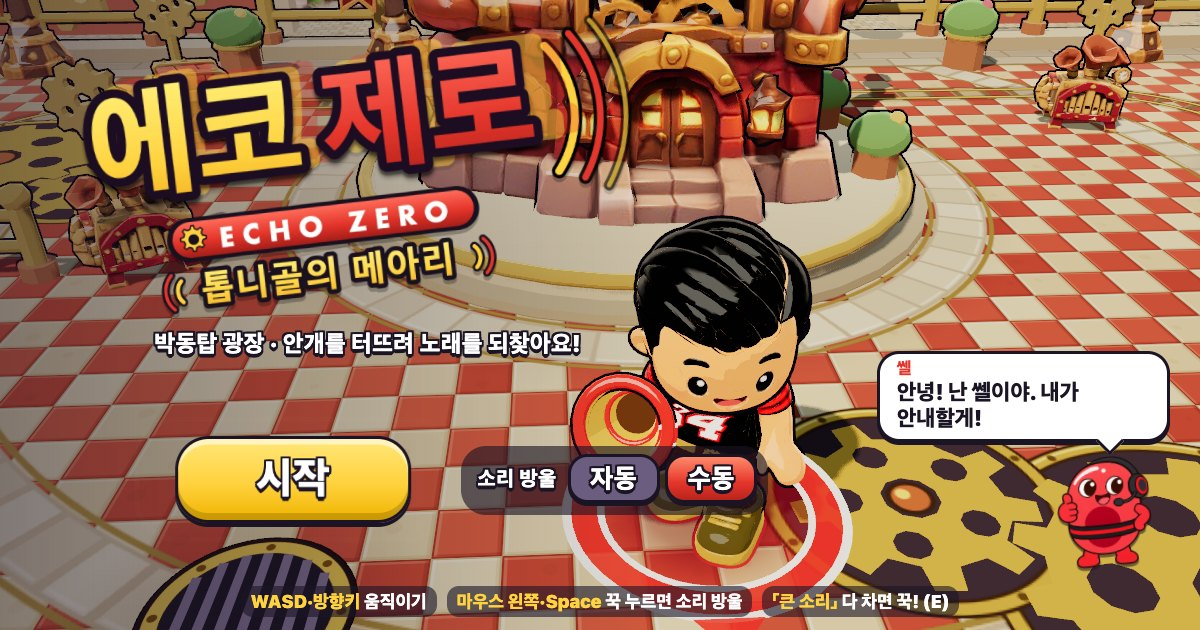
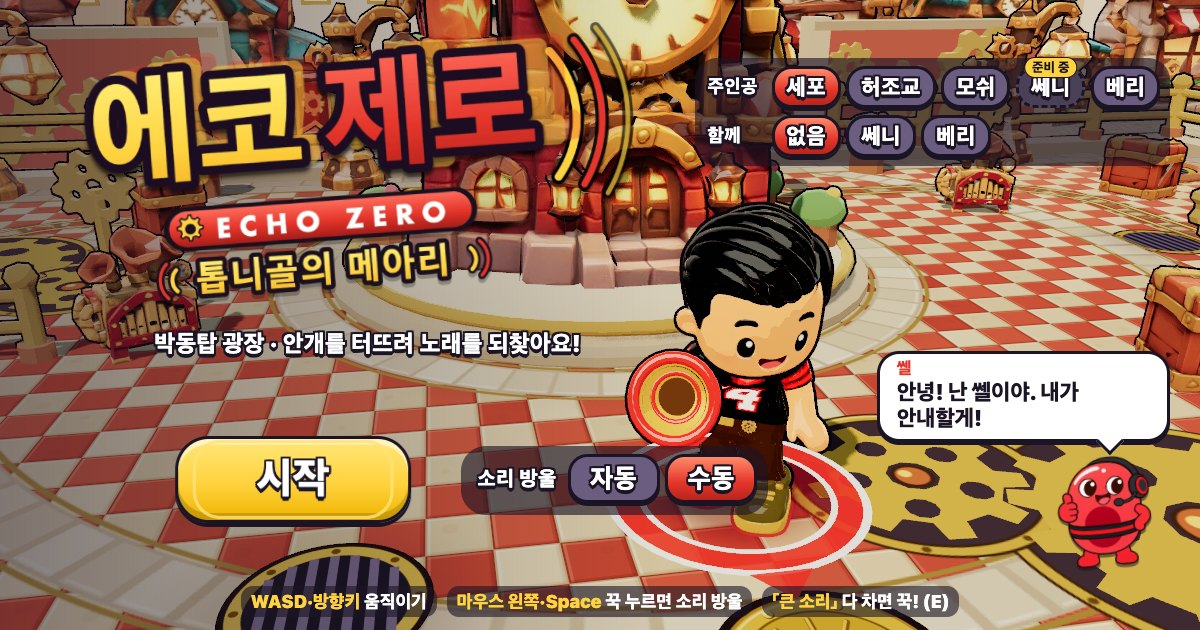
게임 공개본 2026-11-16 (echo.sefoent.com)

diff --git a/js/game.js b/js/game.js
@@ -146,7 +146,7 @@
 
   function toTitle() {
     resetRun();
-    G.phase = 'title'; G.replay = null;
+    G.phase = 'title'; G.replay = null; G.titleSnap = 0.6; // 11-16: 타이틀 들어간 뒤 0.6초는 카메라·주인공 맞춤이 바로 따라감(늦게 따라오며 머리가 칸·말풍선에 잠깐 가리지 않게)
     TG.PL.x = 0; TG.PL.z = 3.5; TG.PL.px = 0; TG.PL.pz = 3.5; TG.PL.yaw = TG.PL.tyaw = 0;
     TG.H.show(TG.H.title, true); TG.H.show(TG.H.hud, false); TG.H.show(TG.H.result, false); TG.H.show(TG.H.pause, false);
     TG.A.bgm('bgm_win', 0.6, true);
@@ -897,6 +897,12 @@
     // 주인공·보조 고르기 (타이틀, 11-16)
     document.querySelectorAll('[data-hero]').forEach((b) => b.addEventListener('click', (e) => { e.stopPropagation(); TG.A.unlock(); TG.A.ui(1.1); if (G.phase === 'title') setHeroNow(b.dataset.hero, TG.assistId); }));
     document.querySelectorAll('[data-assist]').forEach((b) => b.addEventListener('click', (e) => { e.stopPropagation(); TG.A.unlock(); TG.A.ui(1.1); if (G.phase === 'title') setHeroNow(TG.heroId, b.dataset.assist); }));
+    // 쎄니 주인공 자리(3D 전, 11-16 대표): 눌러도 안 골라짐 — 버튼 아래 「곧 만나요!」만 잠깐
+    { let soonTO = 0; document.querySelectorAll('[data-soon]').forEach((b) => b.addEventListener('click', (e) => { e.stopPropagation(); e.preventDefault(); TG.A.unlock(); TG.A.ui(0.8);
+      const tip = document.getElementById('soonTip'), cp = document.getElementById('charPick'); if (!tip || !cp) return;
+      const br = b.getBoundingClientRect(), cr = cp.getBoundingClientRect(); tip.classList.remove('hide');
+      tip.style.left = Math.max(0, Math.min(cr.width - tip.offsetWidth, br.left - cr.left + br.width / 2 - tip.offsetWidth / 2)) + 'px';
+      clearTimeout(soonTO); soonTO = setTimeout(() => tip.classList.add('hide'), 1600); })); }
     document.getElementById('optBgm').addEventListener('input', (e) => { G.settings.bgm = e.target.value / 100; applySettings(); saveSet(); });
     document.getElementById('optSfx').addEventListener('input', (e) => { G.settings.sfx = e.target.value / 100; applySettings(); saveSet(); });
   }
@@ -1088,9 +1094,9 @@
     const aspect = R.w / R.h;
     let dist, pitch, yaw = 0, tx, tz, ty = 0.6, bossCam = false;
     if (G.phase === 'title') {
-      const t = G.drawT;
-      dist = 9.6; pitch = 0.36; yaw = -0.18 + Math.sin(t * 0.25) * 0.12;
-      tx = p.rx - 3.0; tz = p.rz - 0.6; ty = 2.0;
+      const t = G.drawT, f = G.titleFit || 1; // f = 주인공 맞춤 배율(발 자리를 중심으로 거리·목표점을 같이 늘림 → 주인공만 작아 보임, 발은 같은 자리). 아래 titleFitUpdate
+      dist = 9.6 * f; pitch = 0.36; yaw = -0.18 + Math.sin(t * 0.25) * 0.12;
+      tx = p.rx - 3.0 * f + (G.titleShift || 0); tz = p.rz - 0.6 * f; ty = 2.0 * f; // titleShift = 쎌 말풍선에 얼굴이 걸리면 주인공을 화면 왼쪽으로 조금
     } else {
       const base = aspect > 2 ? 20.8 : 22.5; // 대표 의견(11-12): 더 넓게 — 예전 15.4/17 의 1.35배
       dist = base * G.camZoom; ty = 1.0; // SEFO 가 화면 높이의 1/5 이상
@@ -1122,6 +1128,7 @@
       else if (G.phase === 'bossIntro') { tx = TG.lerp(p.rx, 0, 0.5); tz = TG.lerp(p.rz, 1, 0.5) - 1; }
     }
     if (api.camOv) { const o = api.camOv; dist = o.dist; pitch = o.pitch; yaw = o.yaw; tx = p.rx; tz = p.rz; ty = o.ty; cam.dist = dist; cam.pitch = pitch; cam.yaw = yaw; cam.x = tx; cam.z = tz; cam.ty = ty; } // 시험: 가까이 보기
+    if (G.titleSnap > 0 && G.phase === 'title') { G.titleSnap -= dt; cam.x = tx; cam.z = tz; cam.dist = dist; cam.pitch = pitch; cam.yaw = yaw; cam.ty = ty; }
     const k = G.phase === 'title' ? 3 : G.phase === 'intro' ? 2.2 : bossCam ? 3.2 : 6;
     cam.x = TG.damp(cam.x, tx, k, dt); cam.z = TG.damp(cam.z, tz, k, dt);
     cam.dist = TG.damp(cam.dist, dist, G.phase === 'intro' ? 2 : bossCam ? 2.2 : 3, dt); cam.pitch = TG.damp(cam.pitch, pitch, 2.5, dt); cam.yaw = TG.damp(cam.yaw, yaw, 2.5, dt);
@@ -1135,6 +1142,60 @@
     c.translateX(sh.x); c.translateY(sh.y);
     c.rotateZ(sh.roll);
     R.followShadow(cam.x, cam.z - 2);
+    if (G.phase === 'title') titleFitUpdate(dt);
+  }
+  // 타이틀 주인공 맞춤 (11-16 대표: 폰에서 모쉬 큐브 머리가 주인공 칸에 가림): 머리 꼭대기(모델 경계 상자 위 네 모서리)가 주인공 칸 아래 8px 보다 위로 가면
+  // 필요한 만큼만 f 를 키움(최대 1.8). 주인공·화면 크기마다 저절로 맞음. 그리기 전용(규칙·기록과 무관)
+  let fitBox = null;
+  const _fv = new T.Vector3();
+  function heroBox() {
+    const PL = P(); if (!PL.model) return null;
+    if (fitBox && fitBox.m === PL.model && G.drawT - fitBox.t < 0.5) return fitBox; // 자세가 바뀌니 0.5초마다 다시 잼(꼭짓점 1500개 남짓 — 타이틀에서만)
+    PL.root.updateMatrixWorld(true);
+    const bb = new T.Box3(), v = new T.Vector3();
+    PL.model.traverse((o) => {
+      if (!o.isMesh || o.userData.isOutline || !o.visible || !o.geometry || !o.geometry.attributes.position) return;
+      const pos = o.geometry.attributes.position, step = Math.max(1, Math.floor(pos.count / 1500));
+      for (let i = 0; i < pos.count; i += step) { v.fromBufferAttribute(pos, i); if (o.isSkinnedMesh) o.applyBoneTransform(i, v); v.applyMatrix4(o.matrixWorld); bb.expandByPoint(v); }
+    });
+    if (bb.isEmpty()) return null;
+    const r = PL.root.position;
+    fitBox = { m: PL.model, t: G.drawT, x0: bb.min.x - r.x, x1: bb.max.x - r.x, z0: bb.min.z - r.z, z1: bb.max.z - r.z, top: (bb.max.y - r.y) * 1.04 }; // 4% = 숨 쉬기·통통 여유
+    return fitBox;
+  }
+  let fitMeasT = -1;
+  function titleFitUpdate(dt) {
+    const snap = G.titleSnap > 0;
+    if (G.titleFitT) G.titleFit = snap ? G.titleFitT : TG.damp(G.titleFit || G.titleFitT, G.titleFitT, G.titleFitT > (G.titleFit || 1) ? 20 : 3, dt); // 가릴 땐 빨리, 풀릴 땐 천천히
+    if (G.titleShiftT != null) G.titleShift = snap ? G.titleShiftT : TG.damp(G.titleShift || 0, G.titleShiftT, G.titleShiftT > (G.titleShift || 0) ? 12 : 2, dt);
+    if (!snap && G.drawT - fitMeasT < 0.1 && G.drawT >= fitMeasT) return; // 재기는 0.1초마다(배치 읽기·투영 — 가볍게), 따라가기는 매 프레임
+    fitMeasT = G.drawT;
+    const pick = document.getElementById('charPick'), PL = P();
+    if (!pick || !pick.offsetParent || !PL.root.visible || G.heroWait) return;
+    const hb = heroBox(); if (!hb) return;
+    const c = TG.R.camera, cvr = TG.R.renderer.domElement.getBoundingClientRect(), H = cvr.height || innerHeight, rx = PL.root.position.x, rz = PL.root.position.z;
+    c.updateMatrixWorld();
+    let head = 1e9;
+    for (const x of [hb.x0, hb.x1]) for (const z of [hb.z0, hb.z1]) { _fv.set(rx + x, hb.top, rz + z).project(c); head = Math.min(head, cvr.top + (1 - _fv.y) / 2 * H); }
+    _fv.set(rx, 0, rz).project(c); const feet = cvr.top + (1 - _fv.y) / 2 * H;
+    const L = pick.getBoundingClientRect().bottom + 8, fc = cam.dist / 9.6;
+    // 쎌 말풍선(오른쪽 아래) 과 겹치면 옆으로: 위 네 모서리 오른쪽 끝이 말풍선 왼쪽 6px 안으로 들어오면 그만큼 목표점을 오른쪽으로(= 주인공이 왼쪽으로). 최대 1.6·f, 머리쪽만 봄
+    const bub = document.querySelector('#sselTitle .gtxt');
+    if (bub && bub.offsetParent) {
+      const br = bub.getBoundingClientRect();
+      let right = -1e9, hLo = -1e9; // 머리쪽(키 62% 위)만 — 몸·발은 말풍선 뒤여도 됨
+      for (const x of [hb.x0, hb.x1]) for (const z of [hb.z0, hb.z1]) for (const y of [hb.top * 0.62, hb.top]) { _fv.set(rx + x, y, rz + z).project(c); right = Math.max(right, cvr.left + (_fv.x + 1) / 2 * cvr.width); hLo = Math.max(hLo, cvr.top + (1 - _fv.y) / 2 * cvr.height); }
+      _fv.set(rx, 0, rz).project(c); const fx0 = _fv.x; _fv.set(rx + 1, 0, rz).project(c); const ppu = Math.abs(_fv.x - fx0) / 2 * cvr.width || 1;
+      const yOv = br.bottom > head && br.top < hLo, over = yOv ? right - (br.left - 6) : -1e9, cur = G.titleShift || 0;
+      const base = cam.x - (rx - 3.0 * fc); // 지금 카메라가 실제로 옮겨 가 있는 만큼(목표값 아님 — 따라가는 중에 쌓이지 않게)
+      let want = cur;
+      if (over > 0) want = base + over / ppu; else if (!yOv) want = 0; else if (over < -24) want = base + (over + 24) / ppu;
+      want = TG.clamp(want, 0, 1.6 * (G.titleFit || 1));
+      G.titleShiftT = want; if (snap) G.titleShift = want;
+    }
+    if (!(feet > L + 20)) return;
+    const need = TG.clamp(fc * (feet - head) / (feet - L), 1, 1.8);
+    G.titleFitT = need; if (snap || !G.titleFit) G.titleFit = need;
   }
 
   // ── 매 프레임: 밀린 시간만큼 규칙 계산을 1/60초 걸음으로 돌리고, 그리기는 한 번 ──

diff --git a/css/game.css b/css/game.css
@@ -369,9 +369,11 @@ body:not(.touch) #btnSnd { opacity: 0.85; }
 #atkPick .atkB { color: #fff; background: #6b5d80; font-size: calc(19px * var(--s)); }
 #atkPick .atkB.on { color: #fff; background: linear-gradient(#ff8a6a, #e5352b 60%, #b8241b); }
 /* 주인공·함께 고르기 (타이틀, 11-16 베리): 소리 방울 칸 위에 두 줄 */
-#charPick { position: absolute; bottom: calc(var(--vh, 100dvh) * 0.02 + 196px * var(--s)); right: max(env(safe-area-inset-right, 0px), 2.5vw); display: flex; flex-direction: column; gap: calc(5px * var(--s)); background: rgba(27,20,36,0.62); border-radius: calc(18px * var(--s)); padding: calc(6px * var(--s)) calc(8px * var(--s)) calc(8px * var(--s)) calc(12px * var(--s)); }
-#charPick .atkL { font-size: calc(15px * var(--s)); color: #fff; margin-right: calc(4px * var(--s)); min-width: calc(46px * var(--s)); }
-#charPick .atkB { color: #fff; background: #6b5d80; font-size: calc(17px * var(--s)); padding: calc(4px * var(--s)) calc(12px * var(--s)); }
+/* 11-16 대표: 주인공 다섯(세포·허조교·모쉬·쎄니 준비 중·베리) 한 줄. 칸을 오른쪽 위(⛶ 버튼 아래)로 올리고 버튼을 줄여, 키 큰 주인공(모쉬 큐브 머리)도 머리가 안 가리게.
+   그래도 머리가 닿으면 타이틀 카메라가 주인공만 살짝 작게(발 자리는 그대로) — js/game.js titleFit */
+#charPick { position: absolute; top: calc(max(env(safe-area-inset-top, 0px), 8px) + 50px); right: max(env(safe-area-inset-right, 0px), 2.5vw); display: flex; flex-direction: column; align-items: flex-start; gap: calc(5px * var(--s)); background: rgba(27,20,36,0.62); border-radius: calc(16px * var(--s)); padding: calc(6px * var(--s)) calc(7px * var(--s)) calc(7px * var(--s)) calc(9px * var(--s)); }
+#charPick .atkL { font-size: calc(13.5px * var(--s)); color: #fff; margin-right: calc(2px * var(--s)); min-width: calc(40px * var(--s)); }
+#charPick .atkB { color: #fff; background: #6b5d80; font-size: calc(16px * var(--s)); padding: calc(4px * var(--s)) calc(8.5px * var(--s)); }
 #charPick .atkB.on { color: #fff; background: linear-gradient(#ff8a6a, #e5352b 60%, #b8241b); }
 #charPick .atkB.berri.on { background: linear-gradient(#ffb3d6, #ff7fb6 60%, #d9558f); color: #2a1424; }
 #charPick .atkB.sseni.on { background: linear-gradient(#cdb0ff, #a46bff 60%, #7a46d6); }
@@ -381,6 +383,12 @@ body:not(.touch) #btnSnd { opacity: 0.85; }
 #charPick .atkB.busy .ol::after { content: '…'; }
 body.heroWait #startBtn { opacity: 0.55; pointer-events: none; }
 #charPick .atkB.hide { display: none; }
+/* 쎄니 주인공 자리(3D 전): 흐리게 + 「준비 중」 꼬리표, 눌러도 안 골라짐 — 「곧 만나요!」 작은 말풍선만 (js/game.js) */
+#charPick .atkB.soon { position: relative; background: #4a4158; color: rgba(255,255,255,0.5); border-style: dashed; box-shadow: none; cursor: default; }
+#charPick .atkB.soon:active { transform: none; }
+#charPick .atkB.soon .soonTag { position: absolute; left: 50%; top: calc(-9px * var(--s)); transform: translateX(-50%); font-style: normal; white-space: nowrap; font-size: calc(9.5px * var(--s)); line-height: 1; padding: calc(2px * var(--s)) calc(5px * var(--s)); border-radius: 99px; background: #ffd23f; color: #1b1424; border: 1.5px solid #1b1424; }
+#soonTip { position: absolute; z-index: 2; top: 100%; margin-top: calc(6px * var(--s)); font-size: calc(14px * var(--s)); background: #fff; color: #1b1424; border: 3px solid #1b1424; border-radius: calc(12px * var(--s)); padding: calc(3px * var(--s)) calc(10px * var(--s)); white-space: nowrap; pointer-events: none; text-shadow: none; }
+#soonTip.hide { display: none; }
 .atkSeg.sm .atkB { font-size: calc(15px * var(--s)); padding: calc(3px * var(--s)) calc(12px * var(--s)); }
 body.atkAuto .manOnly { display: none !important; }
 body:not(.atkAuto) .autoOnly { display: none !important; }

diff --git a/js/heroes.js b/js/heroes.js
@@ -2,18 +2,19 @@
    주인공: SEFO(기본) · BERRI · 허조교(GUNNER, 기획서 ④ 2번: 삑! 직선 음표 / 열 맞춰! 한 줄 관통) · MOSHEE(회의록 추천안: 픽셀 빛줄 벽 한 번 튕김 / 픽셀 하트 날아가 벽에서 넷으로). 보조(쎄니·베리, 기획서 ⑦-A-4): 주인공 뒤를 따라다님, 판정 없음, 카드 적용 없음.
    주인공 GLB 는 고른 것만 따로 받음(js/assets.js M.hero) — 설정은 여기, 묶음은 js/pack_hero_<model>.js
    고르는 법: 주인공이 베리면 보조는 쎄니만. 지금은 「없음」도 둠(끝까지 모드 전까지 — 기존 SEFO 한 판은 그대로).
+   11-16 대표: 화면에 보이는 이름은 전부 한글(세포·허조교·모쉬·베리·쎄니) — 코드 키(sefo·gunner·moshee·berri)는 그대로. 타이틀 주인공 순서 세포·허조교·모쉬·쎄니(3D 전 「준비 중」)·베리
    저장: localStorage tg_hero / tg_assist, 시험: ?hero=berri&assist=sseni */
 (function () {
   'use strict';
   const TG = window.TG;
   TG.HEROES = {
     sefo: {
-      id: 'sefo', name: 'SEFO', model: 'sefo', height: 2.87, kid: false,
+      id: 'sefo', name: '세포', model: 'sefo', height: 2.87, kid: false,
       color: 0xe5352b, colorCss: '#e5352b', xray: 0xf0483c, aim: 0xff6a4a, charge: [0xff8a5b, 0xe5352b, 0xffd966],
       prop: 'mega', propNode: null, badge: '34', headScale: 0.93, shot: 'wave', shotName: '소리 방울', big: 'jump', bigSay: '다 같이 손 머리 위로!',
     },
     berri: {
-      id: 'berri', name: 'BERRI', model: 'berri', height: 2.62, kid: true,
+      id: 'berri', name: '베리', model: 'berri', height: 2.62, kid: true,
       color: 0xff7fb6, colorCss: '#ff7fb6', xray: 0xff8fc4, aim: 0xff9ccb, charge: [0xffb3d6, 0xff7fb6, 0xfff0a8],
       prop: 'wand', propNode: 'berri_wand_grip', badge: null, headScale: 1.0, shot: 'berry', shotName: '베리 방울', big: 'flower', bigSay: '꽃 피었다!',
       guide: { auto: '가까운 안개에 베리 방울이 저절로 굴러가요', man: '「소리」 버튼을 꾹! 베리 방울이 데굴데굴 굴러가요' },
@@ -25,7 +26,7 @@
       guide: { auto: '가까운 안개에 삑! 호루라기 음표가 저절로 날아가요', man: '「소리」 버튼을 꾹! 삑! 호루라기 음표가 쭉 날아가요' },
     },
     moshee: { // MOSHEE: 큐브 머리 화면 표정 7종(tools/build_moshee.py 아틀라스, js/player.js PL.face), 붐박스는 GLB 안 RightHand 뼈 자식. 어른 — 쓰러짐·보스 연출은 SEFO 와 같음
-      id: 'moshee', name: 'MOSHEE', model: 'moshee', height: 2.7, kid: false,
+      id: 'moshee', name: '모쉬', model: 'moshee', height: 2.7, kid: false,
       color: 0x2fe0f0, colorCss: '#2fe0f0', xray: 0x3de8f5, aim: 0x5df0ff, charge: [0x8ff4ff, 0x2fe0f0, 0xff5fb8],
       prop: 'boombox', propNode: 'moshee_boombox_grip', badge: null, headScale: 1.0, faceCam: [2.7, 4.6, 2.7], rimGlow: true, shot: 'pixel', shotName: '픽셀 빛줄', big: 'heart', bigSay: '픽셀 하트!',
       guide: { auto: '가까운 안개에 픽셀 빛줄이 저절로 날아가요', man: '「소리」 버튼을 꾹! 픽셀 빛줄이 벽에 한 번 튕겨요' },

diff --git a/index.html b/index.html
@@ -45,7 +45,7 @@
     <div id="hpBox">
       <div id="face"><canvas id="faceCv" width="320" height="320"></canvas></div>
       <div id="hpCol">
-        <div id="nameTag" class="ol">SEFO <span id="lvTag">Lv.1</span></div>
+        <div id="nameTag" class="ol">세포 <span id="lvTag">Lv.1</span></div>
         <div id="lives" aria-label="소리 크기"></div>
         <div id="xpRow"><span class="nIco ol">♪</span><div id="xpBar"><div id="xpFill"></div></div><span id="noteN" class="ol">0</span></div>
       </div>
@@ -108,10 +108,11 @@
       <img class="logoImg" src="assets/img/logo/logo.webp" alt="에코 제로: 톱니골의 메아리 ECHO ZERO" draggable="false"><span class="srName">에코 제로: 톱니골의 메아리 ECHO ZERO</span>
       <div class="tag ol">박동탑 광장 · 안개를 터뜨려 노래를 되찾아요!</div>
     </div>
-    <!-- 주인공·함께 가는 친구 고르기 (11-16 베리·허조교·MOSHEE). 주인공 모델은 고를 때 따로 받음(버튼 흐려짐 = 받는 중) -->
+    <!-- 주인공·함께 가는 친구 고르기 (11-16 순서 세포·허조교·모쉬·쎄니·베리 — 쎄니는 3D 전이라 「준비 중」 자리만, data-hero 없음). 주인공 모델은 고를 때 따로 받음(버튼 흐려짐 = 받는 중) -->
     <div id="charPick">
-      <div class="atkSeg" role="group" aria-label="주인공 고르기"><span class="atkL ol">주인공</span><button class="atkB" data-hero="sefo"><span class="ol">SEFO</span></button><button class="atkB berri" data-hero="berri"><span class="ol">베리</span></button><button class="atkB gunner" data-hero="gunner"><span class="ol">허조교</span></button><button class="atkB moshee" data-hero="moshee"><span class="ol">MOSHEE</span></button></div>
+      <div class="atkSeg" role="group" aria-label="주인공 고르기"><span class="atkL ol">주인공</span><button class="atkB" data-hero="sefo"><span class="ol">세포</span></button><button class="atkB gunner" data-hero="gunner"><span class="ol">허조교</span></button><button class="atkB moshee" data-hero="moshee"><span class="ol">모쉬</span></button><button class="atkB sseni soon" data-soon="sseni" type="button" aria-disabled="true" aria-label="쎄니 준비 중"><span class="ol">쎄니</span><i class="soonTag">준비 중</i></button><button class="atkB berri" data-hero="berri"><span class="ol">베리</span></button></div>
       <div class="atkSeg" role="group" aria-label="함께 가는 친구 고르기"><span class="atkL ol">함께</span><button class="atkB" data-assist="none"><span class="ol">없음</span></button><button class="atkB sseni" data-assist="sseni"><span class="ol">쎄니</span></button><button class="atkB berri" data-assist="berri"><span class="ol">베리</span></button></div>
+      <div id="soonTip" class="hide ol">곧 만나요!</div>
     </div>
     <div id="atkPick" class="atkSeg" role="group" aria-label="소리 방울 자동 또는 수동">
       <span class="atkL ol">소리 방울</span>
